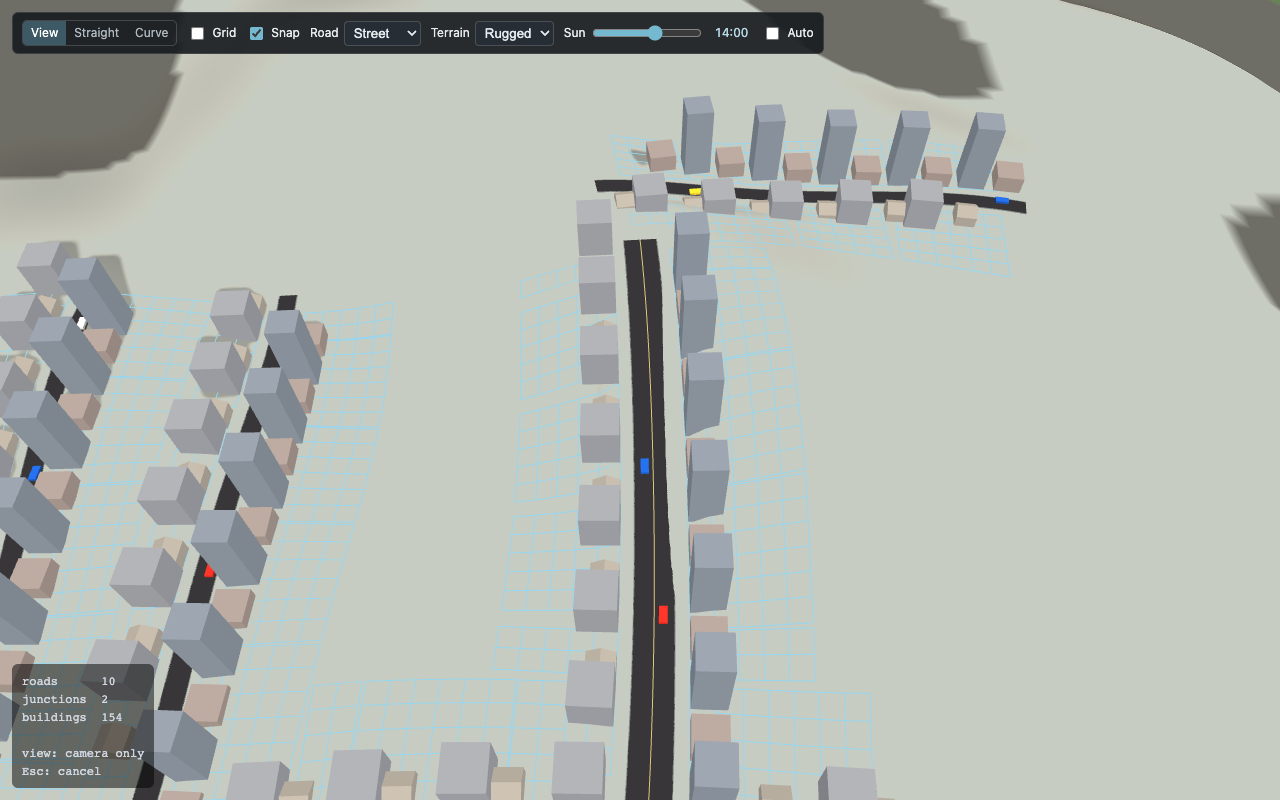
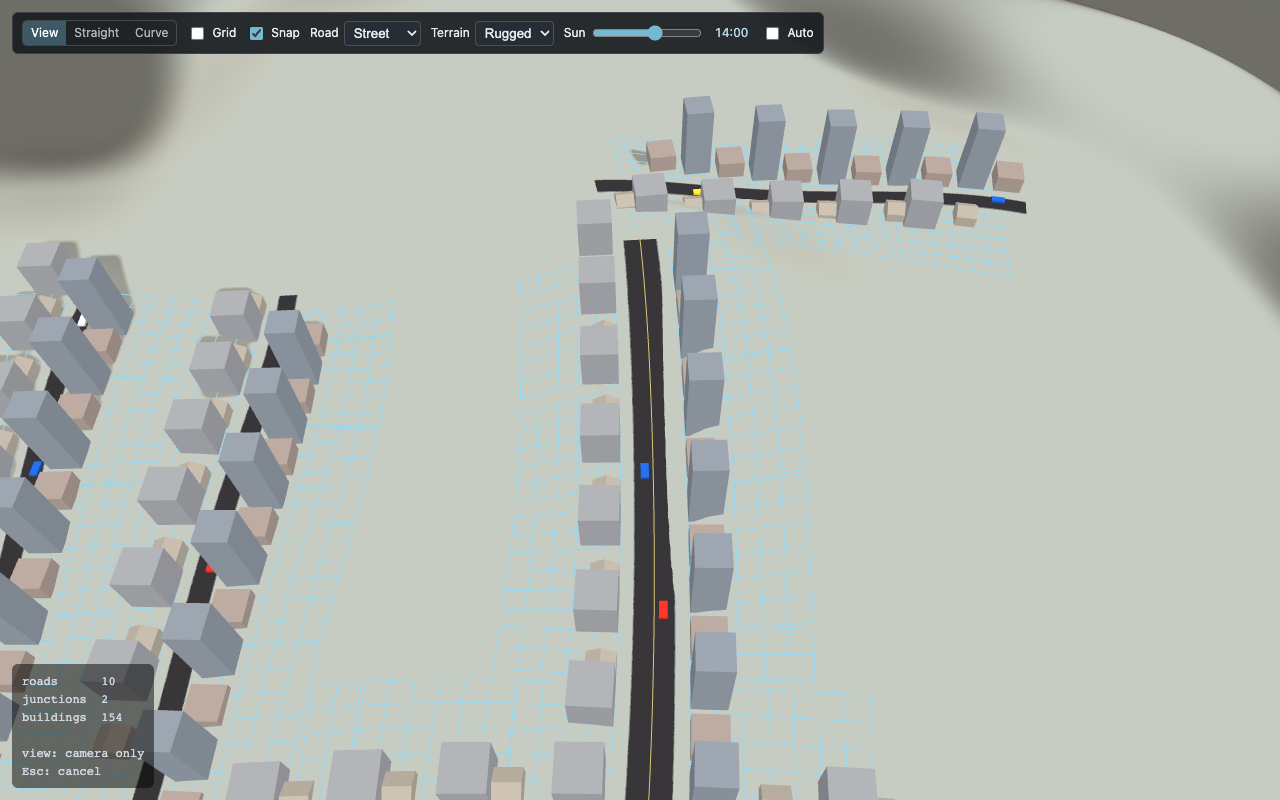
Blend terrain biome colors

diff --git a/src/render/ground.ts b/src/render/ground.ts
@@ -90,12 +90,19 @@ export function createOcean(scene: Scene) {
 }
 
 function terrainColor(h: number): Color4 {
-  if (h < SEA_LEVEL + 1) return new Color4(0.46, 0.43, 0.27, 1);
-  if (h > 85) return new Color4(0.78, 0.8, 0.76, 1);
-  if (h > 48) return new Color4(0.43, 0.43, 0.4, 1);
-  const t = Math.min(1, Math.max(0, (h - 1) / 31));
-  return new Color4(0.33 + t * 0.08, 0.43 + t * 0.08, 0.27 + t * 0.07, 1);
+  const sand = new Color4(0.46, 0.43, 0.27, 1);
+  const grass = new Color4(0.39, 0.51, 0.34, 1);
+  const rock = new Color4(0.43, 0.43, 0.4, 1);
+  const snow = new Color4(0.78, 0.8, 0.76, 1);
+  if (h < SEA_LEVEL + 3) return Color4.Lerp(sand, grass, smoothstep((h - SEA_LEVEL) / 3));
+  if (h < 52) return Color4.Lerp(grass, rock, smoothstep((h - 28) / 24));
+  return Color4.Lerp(rock, snow, smoothstep((h - 72) / 24));
 }
+
+const smoothstep = (t: number): number => {
+  const c = Math.min(1, Math.max(0, t));
+  return c * c * (3 - 2 * c);
+};
 
 export function createWorldGrid(scene: Scene, heightmap: Heightmap) {
   let visible = false;
